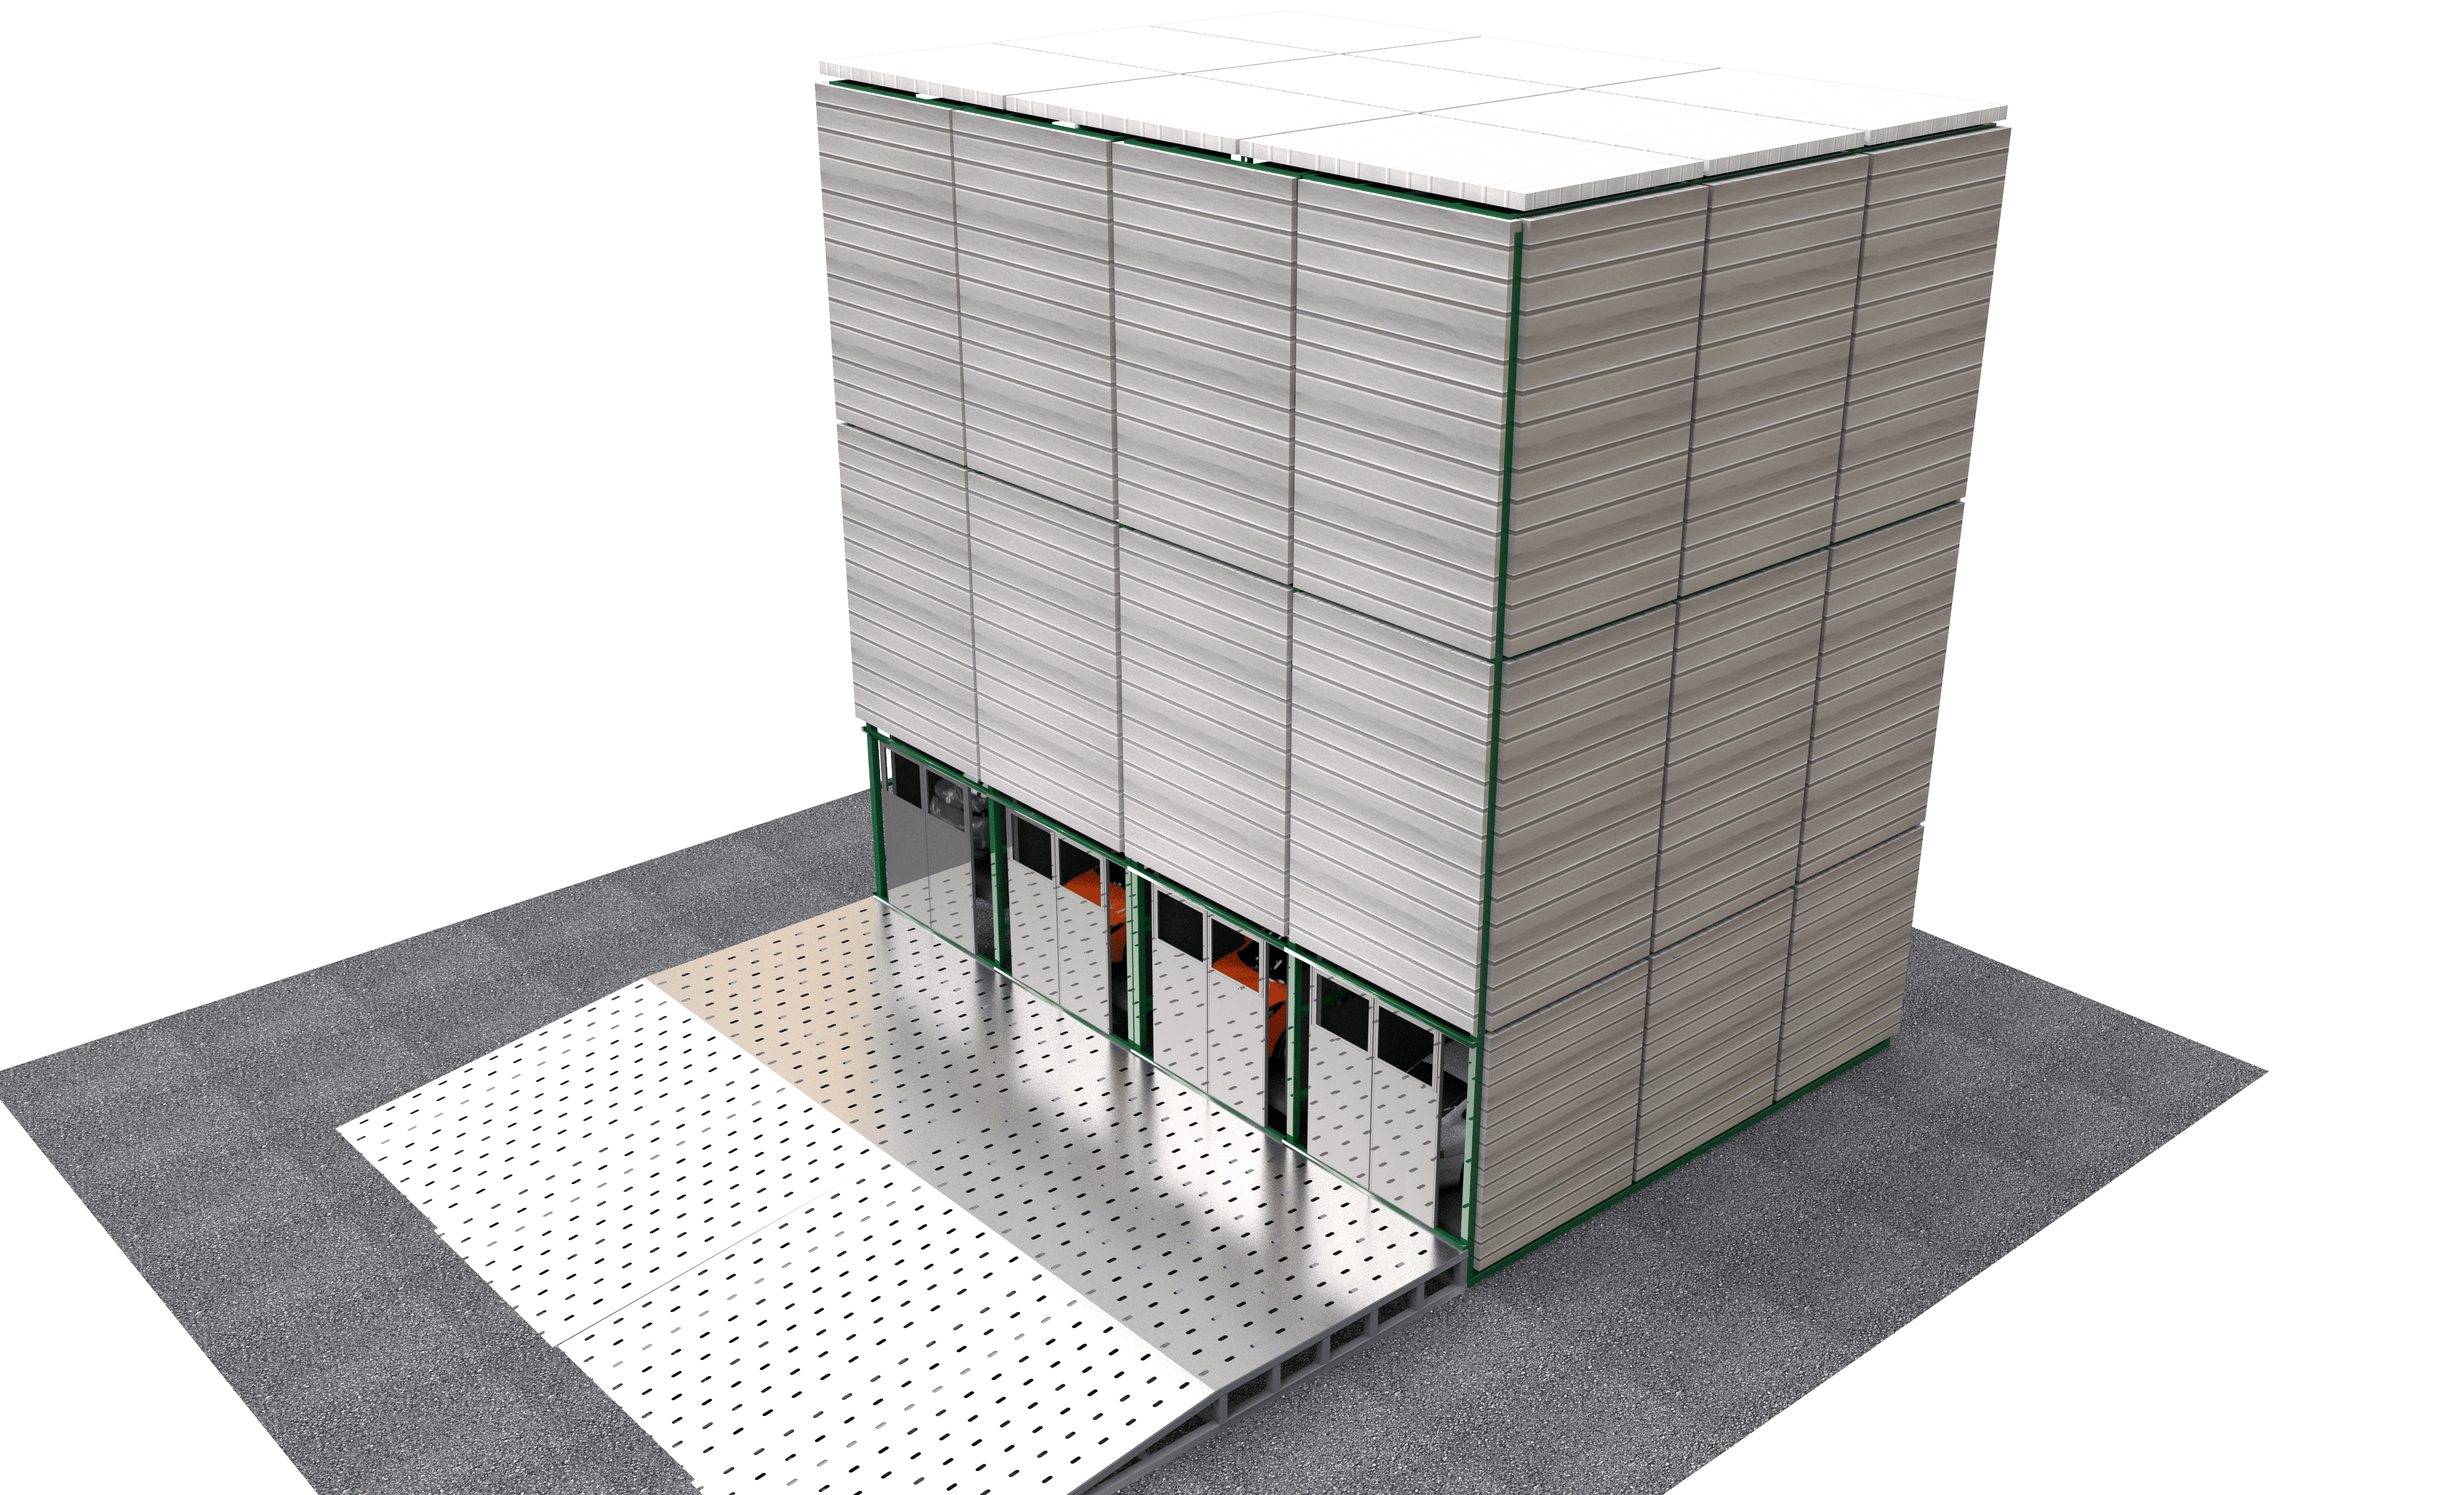
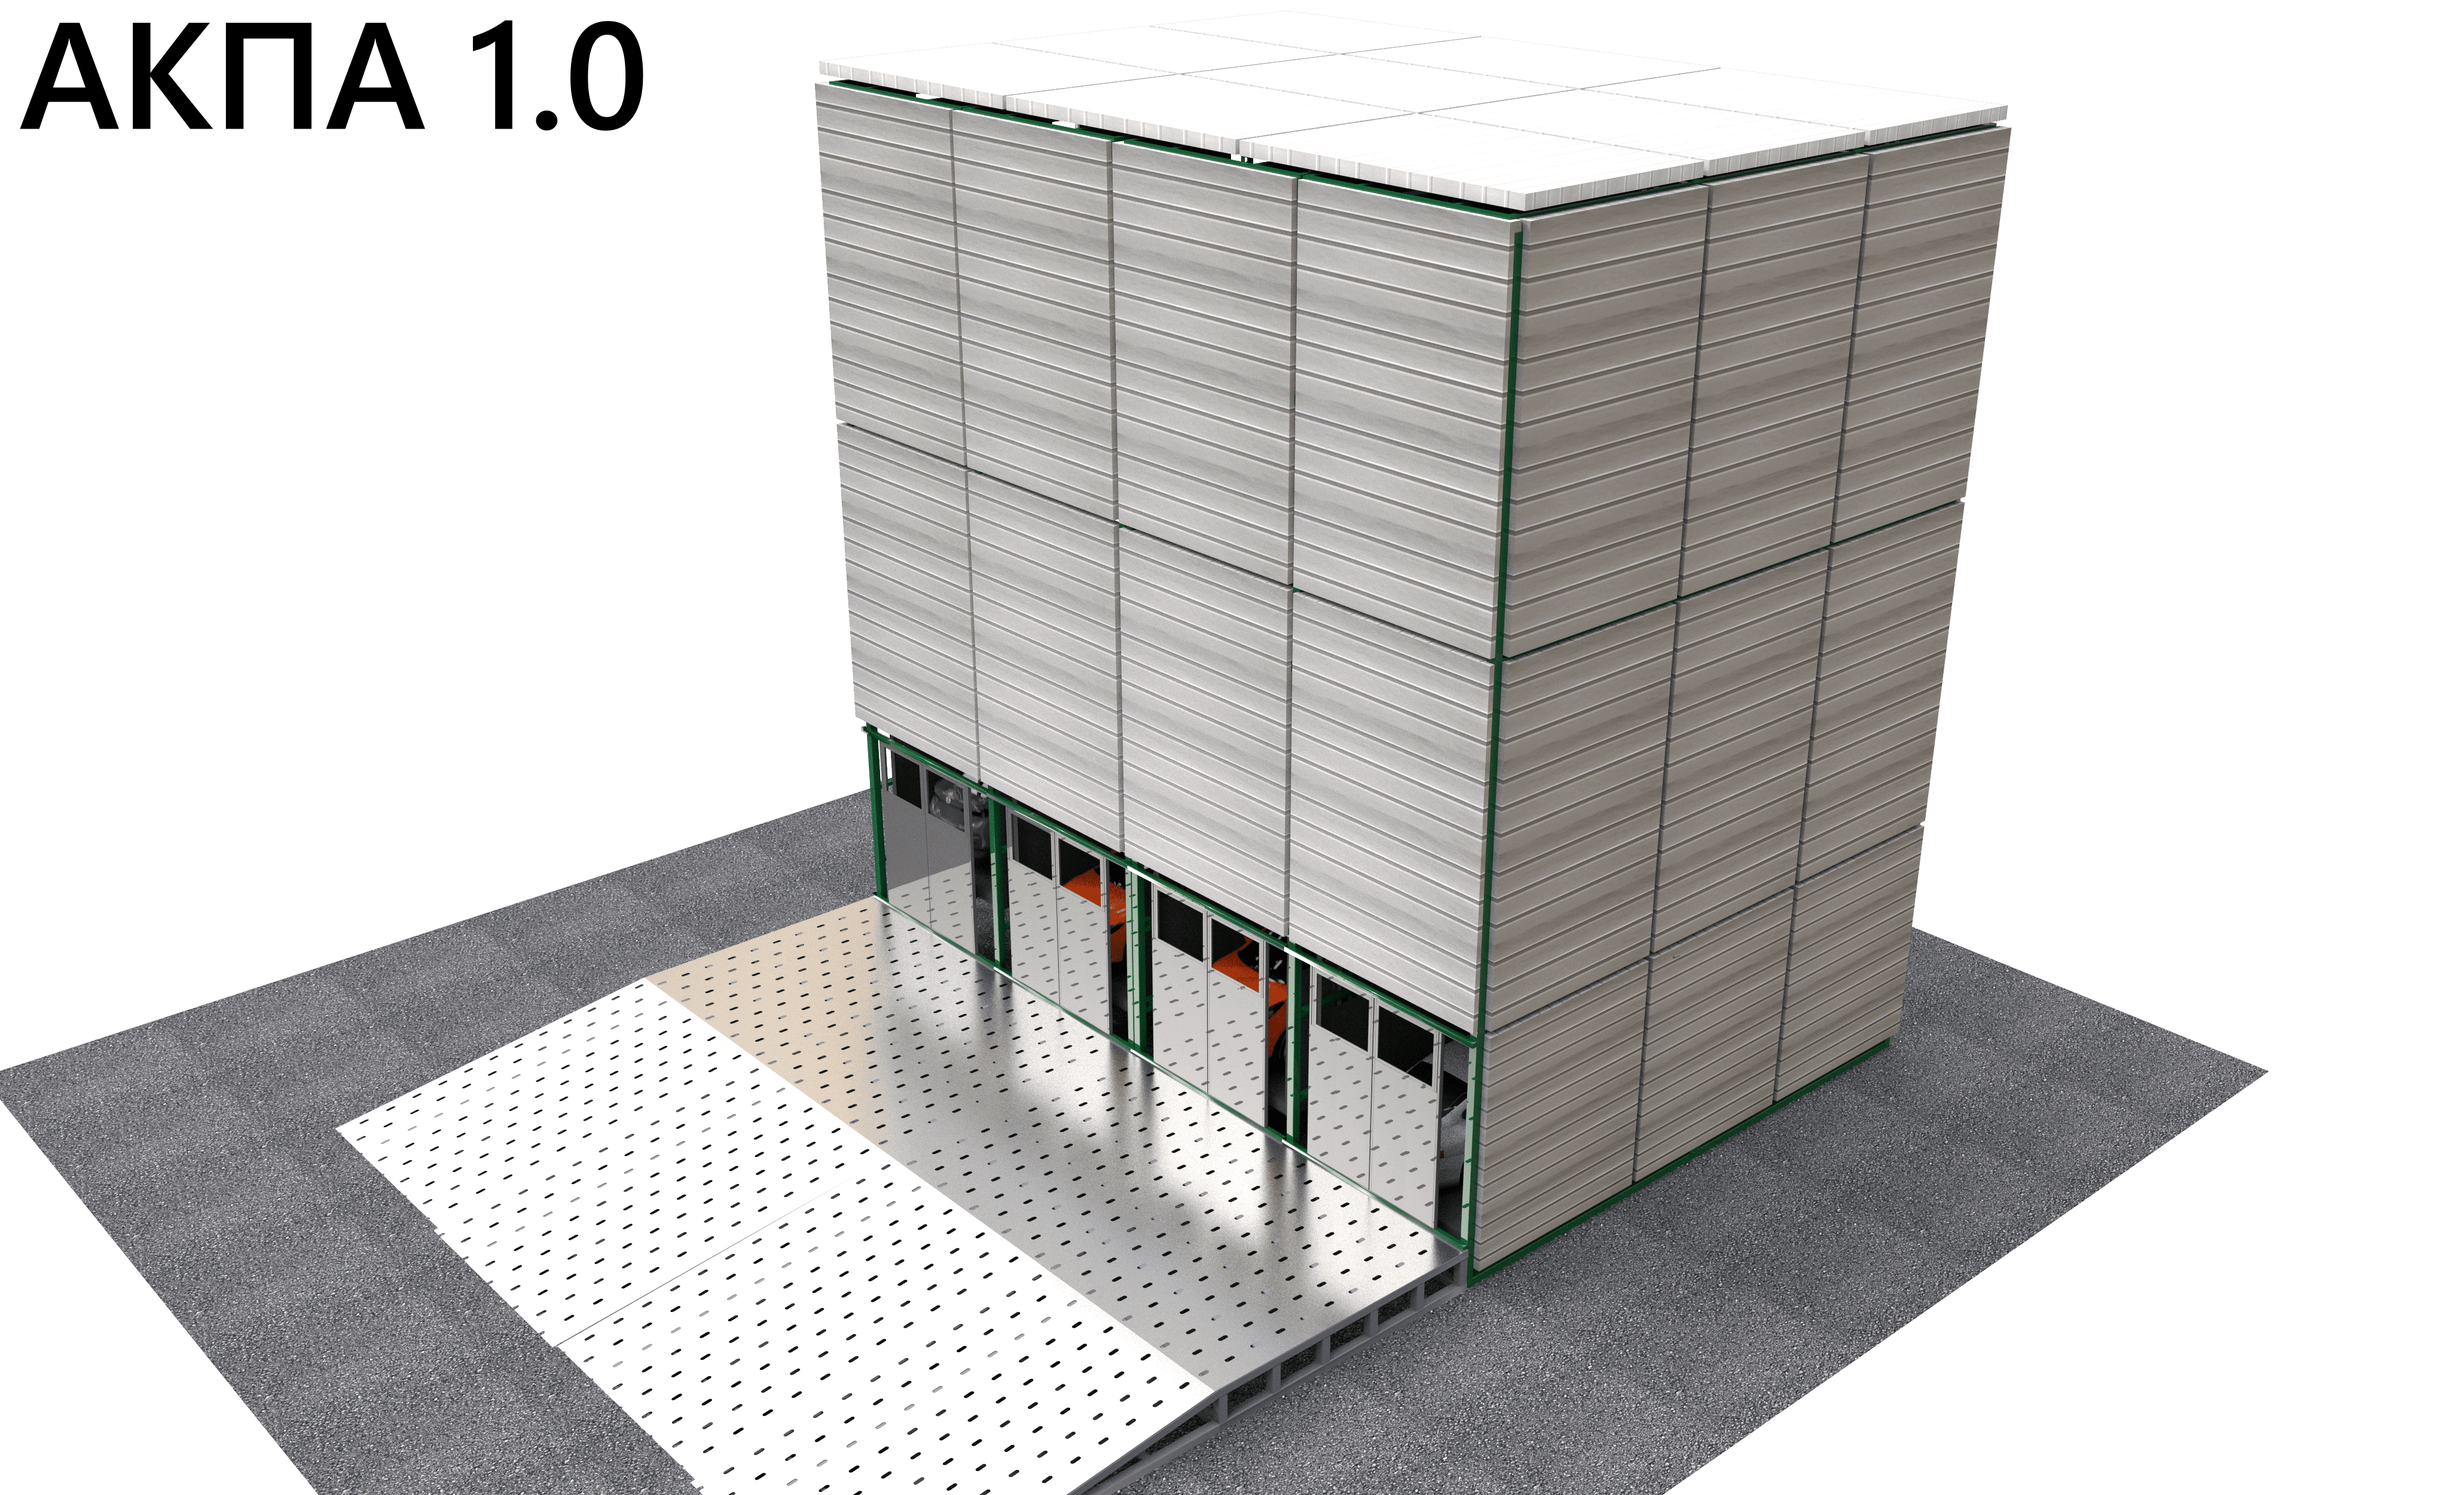
product img ready

Changed region(s): [[0.0, 0.0, 0.2812, 0.0936]]

diff --git a/index.html b/index.html
@@ -102,7 +102,7 @@
           </div>
 
           <div class="img-wrapper">
-            <img src="./img/qr-code.gif" alt="qr-code" />
+            <img src="./img/qr-code.gif" alt="qr-code" class="inline-block" />
           </div>
         </div>
       </div>
@@ -145,34 +145,43 @@
 
           <div class="row product__models">
             <div class="col">
-              <a
-                data-fancybox="gallery"
-                class="photo-frame"
-                href="./img/product/akpa.png"
-              >
-                <img
-                  src="./img/product/akpa.png"
-                  alt="product"
-                  class="model__photo"
-                />
-              </a>
+              <div class="img-wrapper product__img">
+                <p class="img__tip">АКПА 1.0</p>
+                <a
+                  data-fancybox="gallery"
+                  class="photo-frame"
+                  href="./img/product/akpa.png"
+                >
+                  <img
+                    src="./img/product/akpa--mini.png"
+                    alt="product"
+                    class="model__photo"
+                  />
+                </a>
+              </div>
             </div>
             <div class="col">
-              <a
-                data-fancybox="gallery"
-                class="photo-frame"
-                href="./img/product/akpa-solar.jpg"
-              >
-                <img
-                  src="./img/product/akpa-solar.jpg"
-                  alt="product"
-                  class="model__photo"
-                />
-              </a>
+              <div class="img-wrapper product__img">
+                <p class="img__tip">АКПА Solar</p>
+
+                <a
+                  data-fancybox="gallery"
+                  class="photo-frame"
+                  href="./img/product/akpa-solar.jpg"
+                >
+                  <img
+                    src="./img/product/akpa-solar--mini.jpg"
+                    alt="product"
+                    class="model__photo"
+                  />
+                </a>
+              </div>
             </div>
           </div>
 
-          <button class="section__heading--under button">Системы безопасности АКПА</и>
+          <button class="section__heading--under button">
+            Системы безопасности АКПА
+          </button>
         </section>
 
         <section class="customers" id="customers">

diff --git a/css/main.css b/css/main.css
@@ -51,12 +51,6 @@ h1 {
   font-size: 65px;
 }
 .img-wrapper {
-  display: -webkit-box;
-  display: -ms-flexbox;
-  display: flex;
-  -webkit-box-pack: center;
-      -ms-flex-pack: center;
-          justify-content: center;
   position: relative;
 }
 section {
@@ -128,6 +122,25 @@ video {
 .section__link:hover {
   color: #000;
 }
+.img__tip {
+  position: absolute;
+  top: 0;
+  left: 0;
+  font-size: 35px;
+  font-weight: 700;
+}
+.img__tip::after {
+  content: "";
+  position: absolute;
+  bottom: 0;
+  left: 0;
+  width: 0;
+  height: 4px;
+  background-color: #000;
+  z-index: 2;
+  -webkit-transition: width 0.2s;
+  transition: width 0.2s;
+}
 .row {
   display: -webkit-box;
   display: -ms-flexbox;
@@ -159,6 +172,9 @@ video {
   -webkit-box-pack: start;
       -ms-flex-pack: start;
           justify-content: flex-start;
+}
+.inline-block {
+  display: inline-block;
 }
 .header {
   position: relative;
@@ -307,6 +323,9 @@ video {
 }
 .product__models {
   margin-bottom: 85px;
+}
+.product__img:hover .img__tip::after {
+  width: 100%;
 }
 button {
   position: relative;

diff --git a/less/blocks/_base.less b/less/blocks/_base.less
@@ -58,8 +58,6 @@ h1 {
 }
 
 .img-wrapper {
-  display: flex;
-  justify-content: center;
   position: relative;
 }
 
@@ -147,5 +145,27 @@ video {
 
   &:hover {
     color: #000;
+  }
+}
+
+.img__tip {
+  position: absolute;
+  top: 0;
+  left: 0;
+  font-size: 35px;
+  font-weight: 700;
+
+  &::after {
+    content: "";
+    position: absolute;
+    bottom: 0;
+    left: 0;
+    width: 0;
+    height: 4px;
+    background-color: #000;
+
+    z-index: 2;
+
+    transition: width 0.2s;
   }
 }

diff --git a/less/blocks/_section-product.less b/less/blocks/_section-product.less
@@ -5,3 +5,9 @@
 .product__models {
   margin-bottom: 85px;
 }
+
+.product__img:hover .img__tip {
+  &::after {
+    width: 100%;
+  }
+}

diff --git a/less/blocks/_frame.less b/less/blocks/_frame.less
@@ -22,3 +22,7 @@
 .row--left {
   justify-content: flex-start;
 }
+
+.inline-block {
+  display: inline-block;
+}
